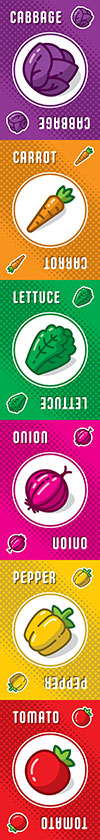
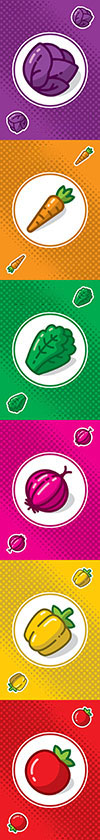
shadow on veggie names

diff --git a/pointsalad.css b/pointsalad.css
@@ -44,6 +44,24 @@
 .card[data-veggie="6"] .card-side {
   background-position-y: 100%;
 }
+.card[data-veggie="1"] .back .name {
+  text-shadow: 2px 2px 0 #51004e;
+}
+.card[data-veggie="2"] .back .name {
+  text-shadow: 2px 2px 0 #905501;
+}
+.card[data-veggie="3"] .back .name {
+  text-shadow: 2px 2px 0 #00652e;
+}
+.card[data-veggie="4"] .back .name {
+  text-shadow: 2px 2px 0 #71003f;
+}
+.card[data-veggie="5"] .back .name {
+  text-shadow: 2px 2px 0 #735e17;
+}
+.card[data-veggie="6"] .back .name {
+  text-shadow: 2px 2px 0 #820202;
+}
 .card[data-side="1"] .card-sides {
   transform: rotateX(180deg);
 }

diff --git a/src/_cards.scss b/src/_cards.scss
@@ -14,6 +14,13 @@
         }
     }
 
+    &[data-veggie="1"] .back .name { text-shadow: 2px 2px 0 #51004e; }
+    &[data-veggie="2"] .back .name { text-shadow: 2px 2px 0 #905501; }
+    &[data-veggie="3"] .back .name { text-shadow: 2px 2px 0 #00652e; }
+    &[data-veggie="4"] .back .name { text-shadow: 2px 2px 0 #71003f; }
+    &[data-veggie="5"] .back .name { text-shadow: 2px 2px 0 #735e17; }
+    &[data-veggie="6"] .back .name { text-shadow: 2px 2px 0 #820202; }
+
     &[data-side="1"] {
         .card-sides { 
             transform: rotateX(180deg);
